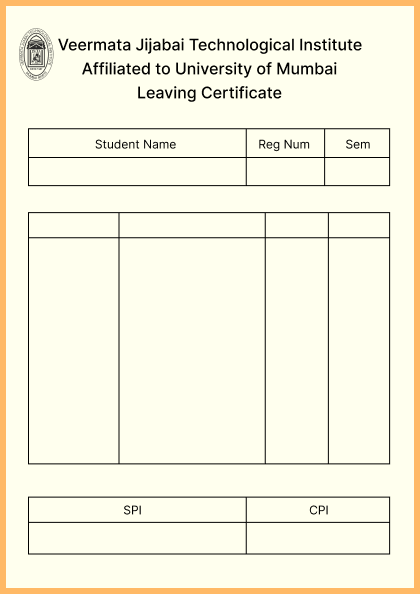
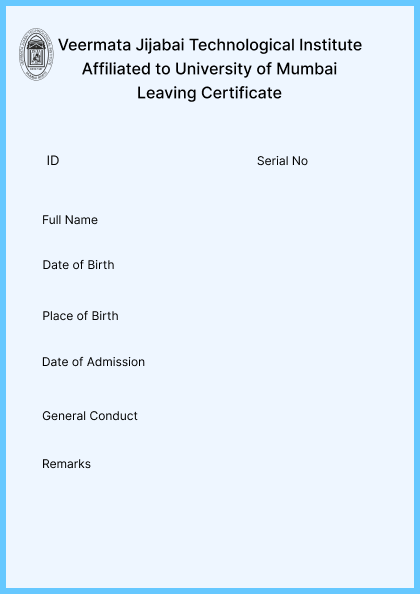
LeavingCertificate upload

Changed region(s): [[0.0619, 0.2121, 0.9286, 0.7879], [0.0, 0.0, 1.0, 1.0], [0.0619, 0.8182, 0.9286, 0.9394]]

diff --git a/src/pages/LCUploadPage/LCUploadPage.jsx b/src/pages/LCUploadPage/LCUploadPage.jsx
@@ -9,7 +9,7 @@ import styles from "./LCUploadPage.module.css";
 import { useDropzone } from "react-dropzone";
 import * as xlsx from "xlsx";
 import Canvas from "./LCCanvas";
-import template from "../../images/template.jpg";
+import template from "../../images/LeavingTemplate.jpeg";
 import { useNavigate } from "react-router-dom";
 import { useCVPContext } from "../../Context/CVPContext";
 import { useAuth } from "../../Context/AuthContext";
@@ -74,11 +74,15 @@ const LCUploadPage = () => {
 		context.drawImage(img, 0, 0, 420, 594);
 		context.font = "14px Arial";
 		context.fillStyle = "black";
-		context.fillText(entry.Name, 95, 176);
-		context.fillText(entry.RegNum, 250, 176);
-		context.fillText("VII", 350, 176);
-		context.fillText(entry.CPI, 122, 543);
-		context.fillText(entry.SPI, 305, 543);
+		context.fillText(entry.ID, 66, 165);
+		context.fillText(entry.SrNo, 318, 165);
+		// context.fillText("VII", 350, 176);
+		context.fillText(entry.full_name, 156, 225);
+		context.fillText(entry.DOB, 156, 270);
+		context.fillText(entry.PlaceOfBirth, 156, 320);
+		context.fillText(entry.DateOfAdmission, 156, 365);
+		context.fillText(entry.GeneralConduct, 156, 421);
+		context.fillText(entry.Remarks, 114, 471);
 	};
 
 	const { getStaffMember, uploadFilesToIPFS, uploadBulkDocuments } =
